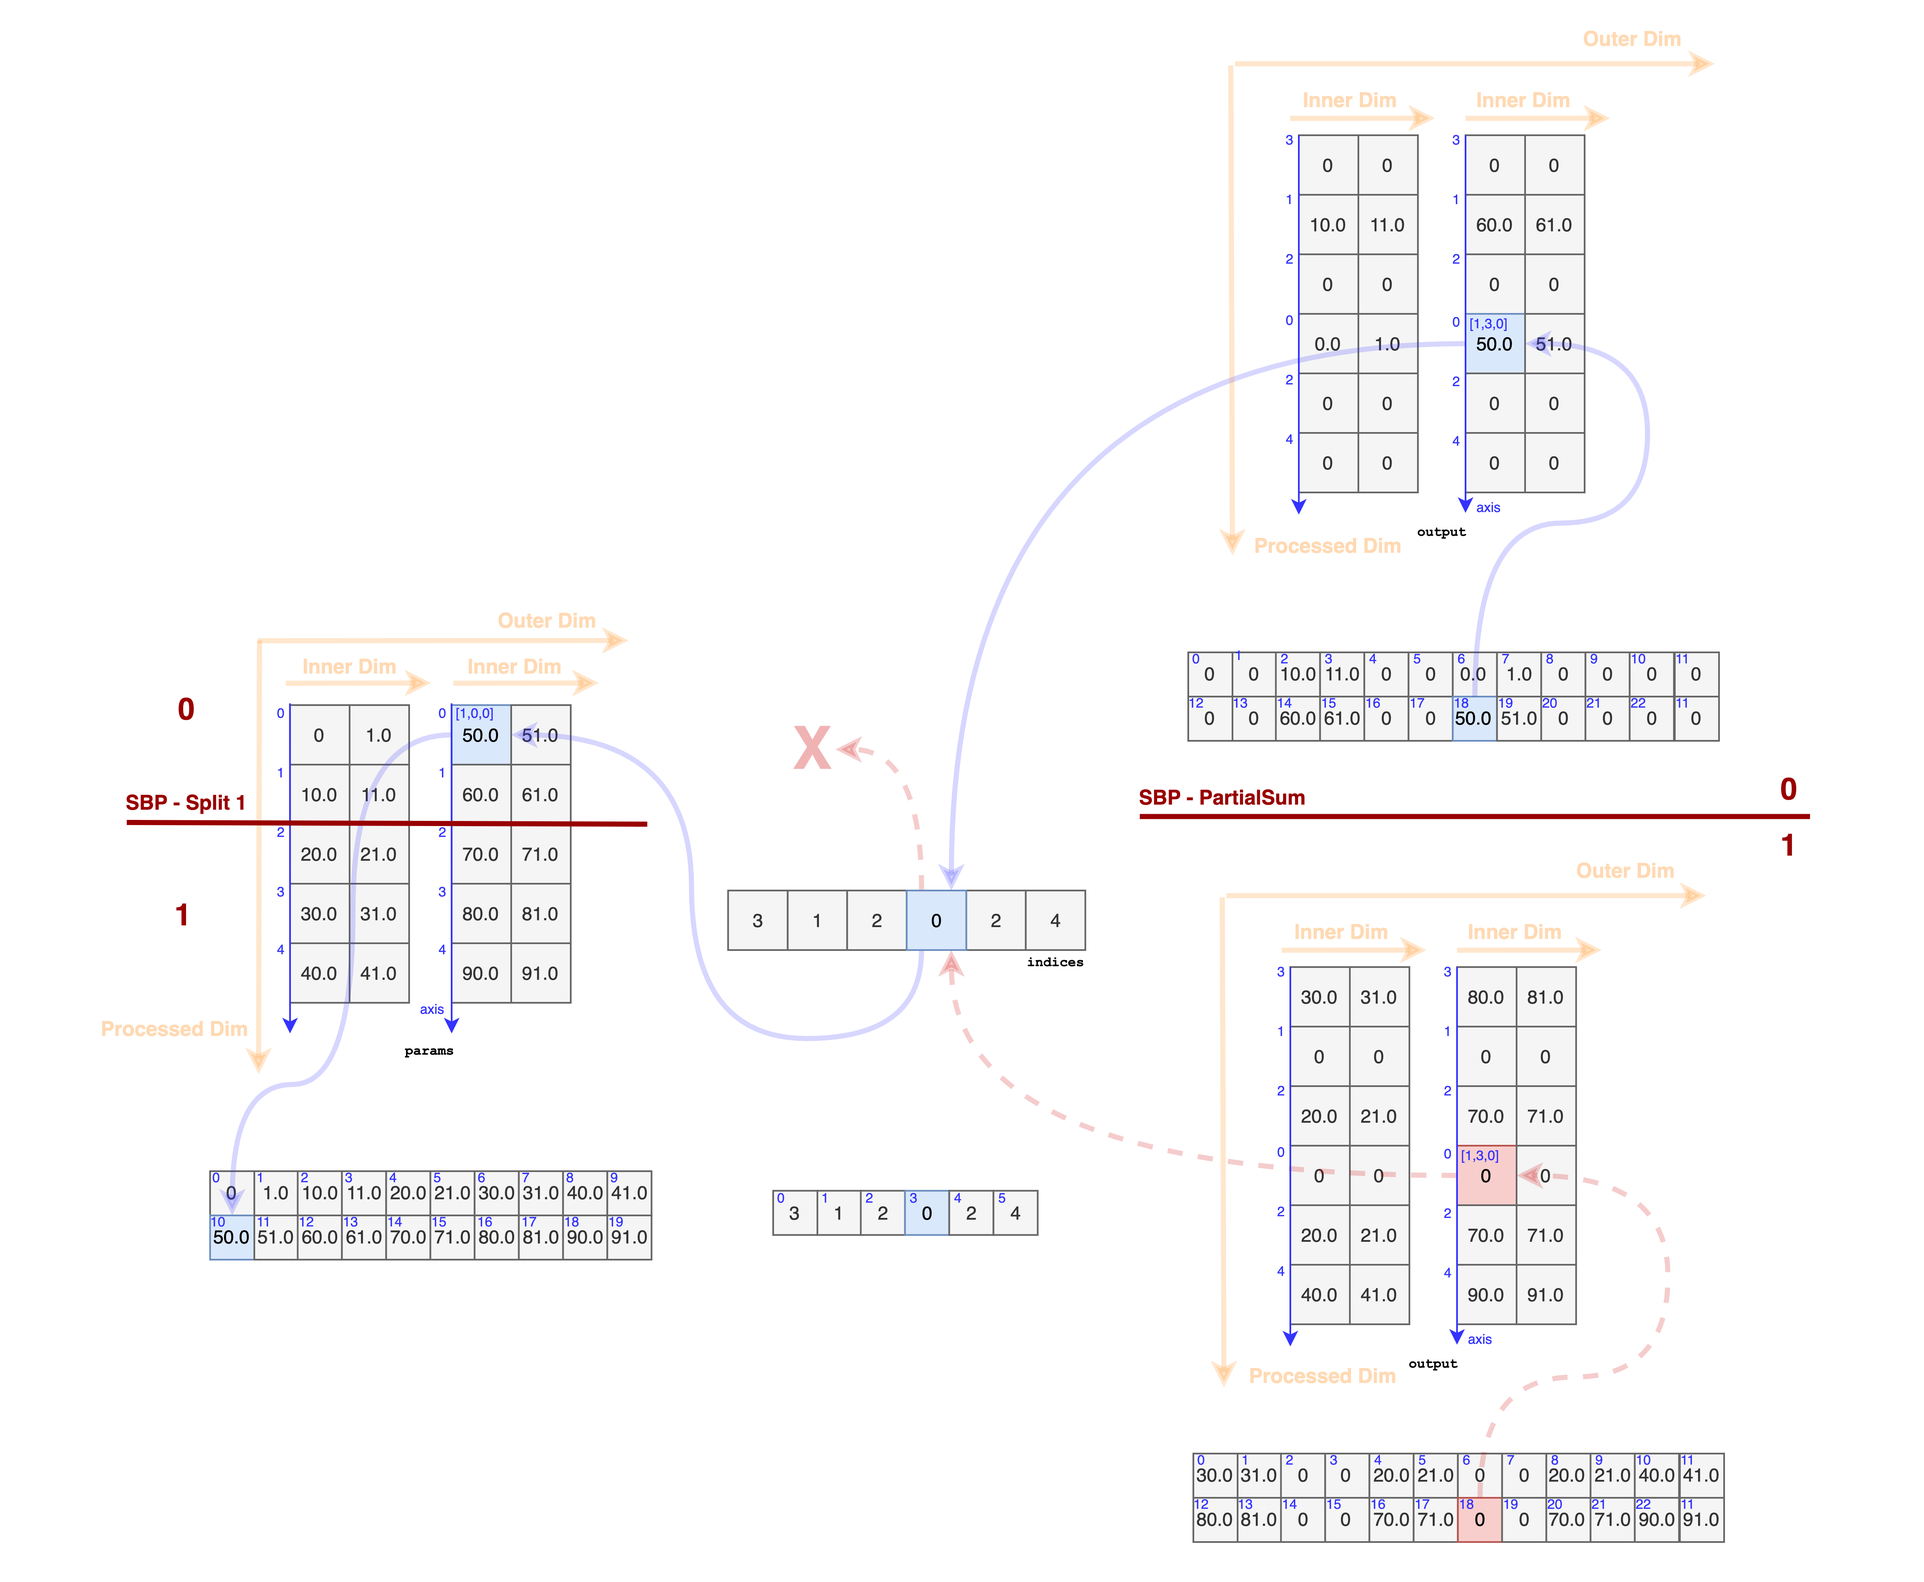
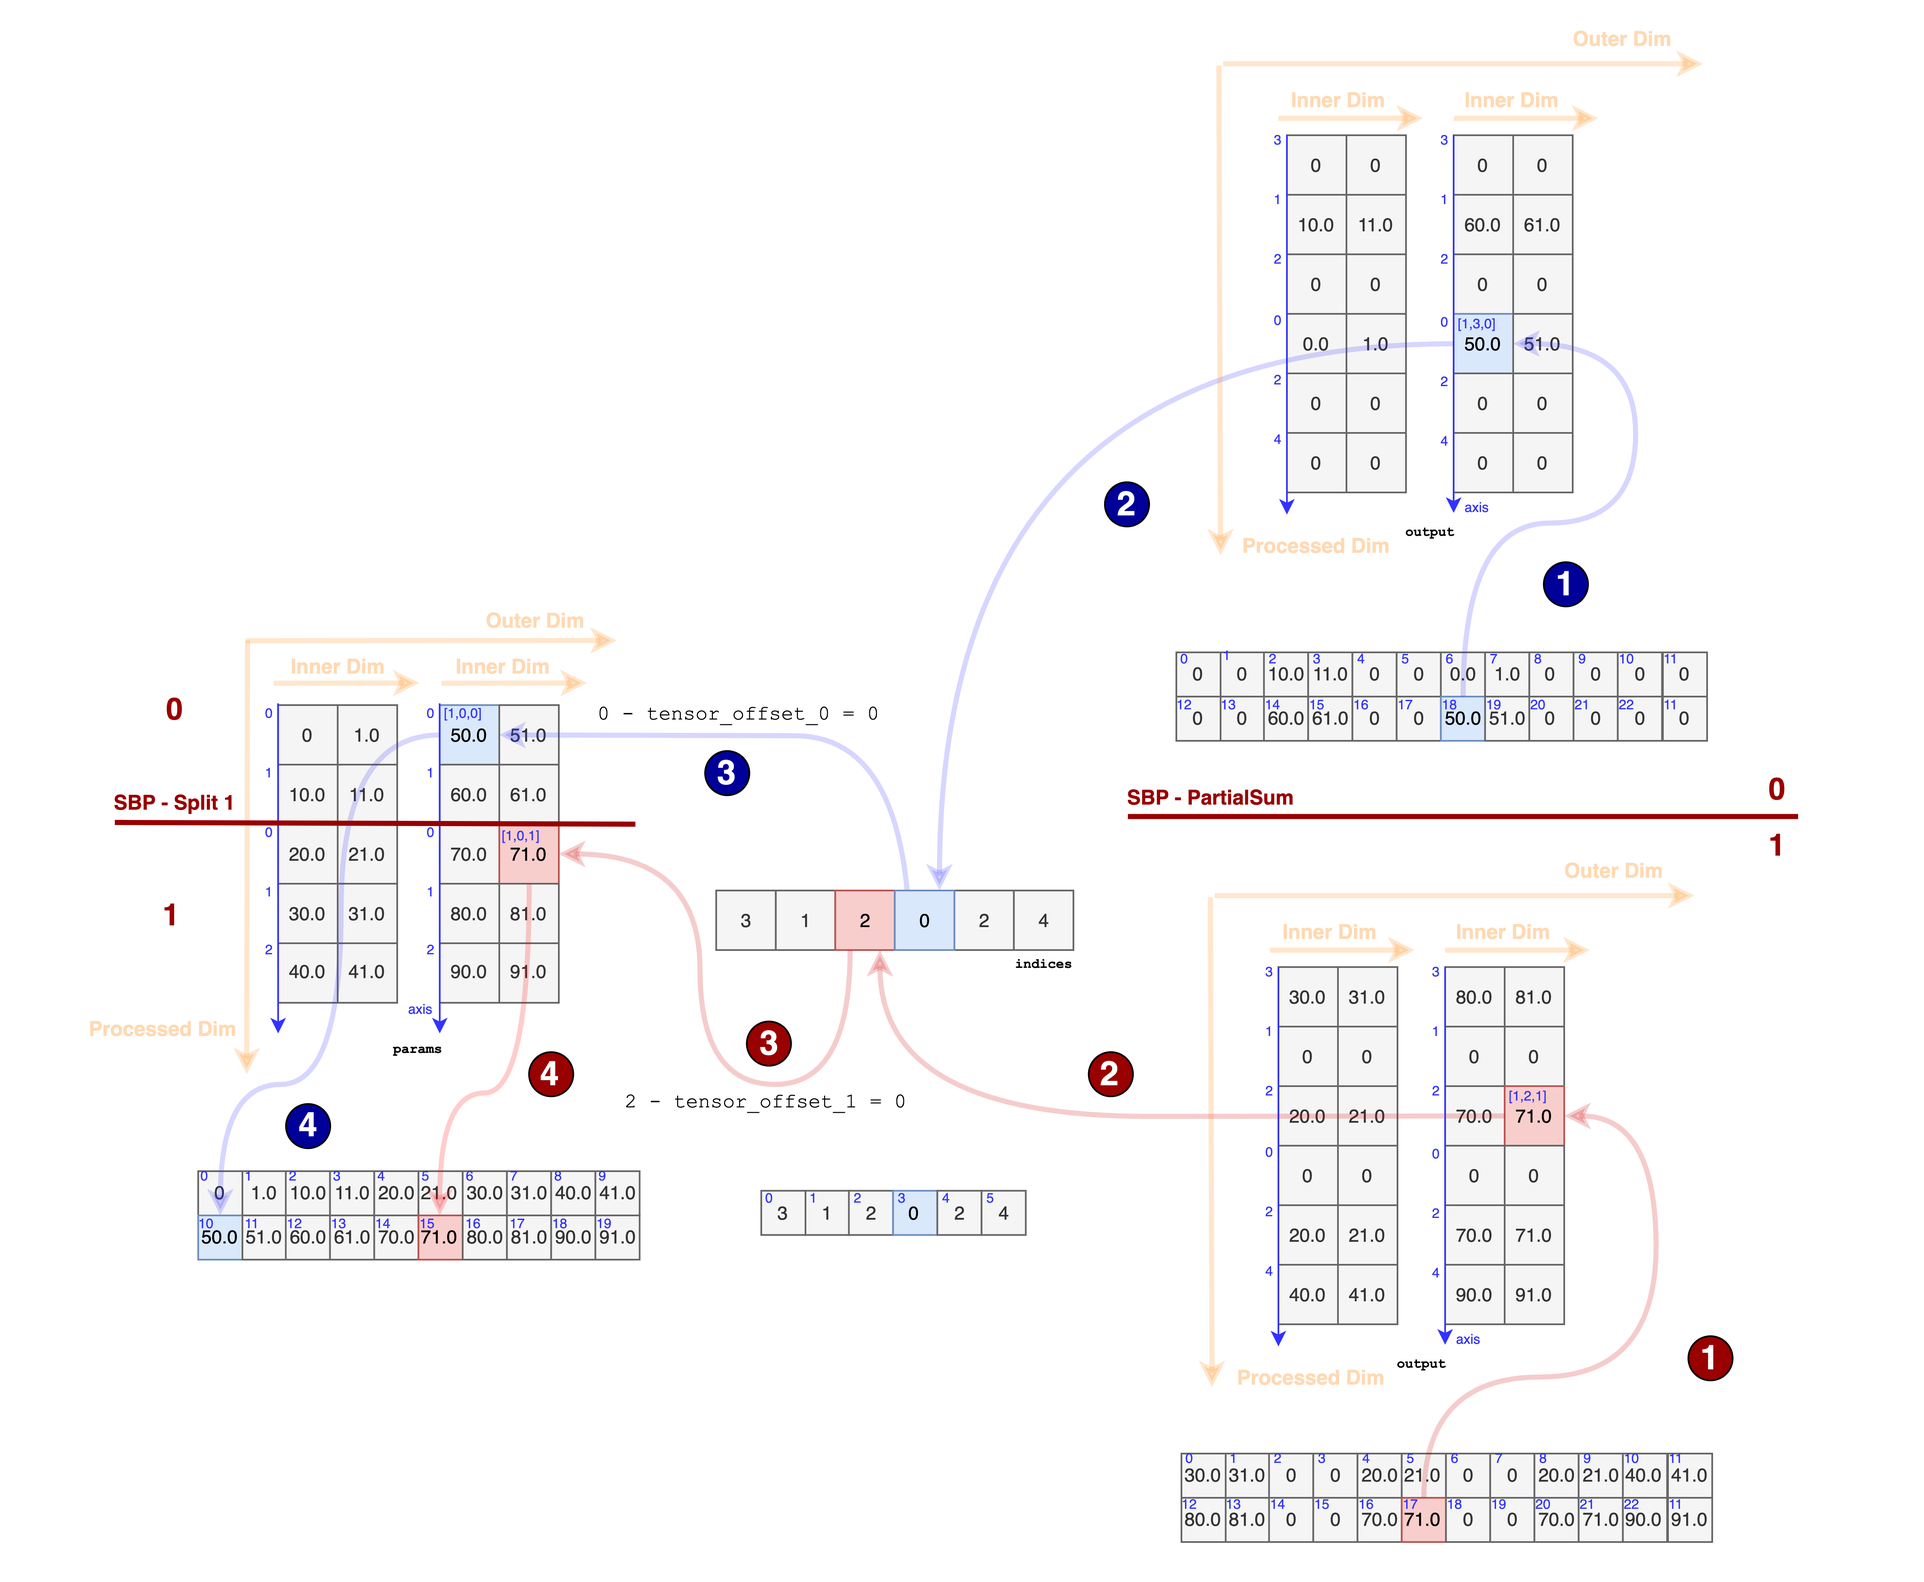
Site updated: 2023-01-22 17:56:56

diff --git a/sec_learning/Tech_System_And_Network/Oneflow_Gather_Primitive_Development/index.html b/sec_learning/Tech_System_And_Network/Oneflow_Gather_Primitive_Development/index.html
@@ -20,12 +20,12 @@
     var CONFIG = {"hostname":"zobinhuang.github.io","root":"/","scheme":"Pisces","version":"7.8.0","exturl":false,"sidebar":{"position":"left","width":180,"display":"post","padding":10,"offset":12,"onmobile":false},"copycode":{"enable":true,"show_result":true,"style":null},"back2top":{"enable":true,"sidebar":true,"scrollpercent":true},"bookmark":{"enable":false,"color":"#222","save":"auto"},"fancybox":false,"mediumzoom":false,"lazyload":false,"pangu":false,"comments":{"style":"tabs","active":null,"storage":true,"lazyload":false,"nav":null},"algolia":{"hits":{"per_page":10},"labels":{"input_placeholder":"Search for Posts","hits_empty":"We didn't find any results for the search: ${query}","hits_stats":"${hits} results found in ${time} ms"}},"localsearch":{"enable":false,"trigger":"auto","top_n_per_article":1,"unescape":false,"preload":false},"motion":{"enable":true,"async":false,"transition":{"post_block":"fadeIn","post_header":"slideDownIn","post_body":"slideDownIn","coll_header":"slideLeftIn","sidebar":"slideUpIn"}}};
   </script>
 
-  <meta name="description" content="MathJax &#x3D; {         tex: {             inlineMath: [[&#39;$&#39;,&#39;$&#39;], [&#39;\\(&#39;,&#39;\\)&#39;]],             displayMath: [[&#39;$$&#39;,&#39;$$&#39;], [&#39;\\[&#39;,&#39;\\]&#39;]],             processEscapes: true,             process">
+  <meta name="description" content="本文首先介绍了 Gather 和 Batch Gather 的行为、以及它们在 OneFlow 中如何进行 SBP 操作，然后介绍了它们底层 (CUDA 和 CPU) 实现的具体思路">
 <meta property="og:type" content="website">
 <meta property="og:title" content="在 Oneflow 中开发 Gather Primitive">
 <meta property="og:url" content="https://zobinhuang.github.io/sec_learning/Tech_System_And_Network/Oneflow_Gather_Primitive_Development/index.html">
 <meta property="og:site_name" content="Zobin">
-<meta property="og:description" content="MathJax &#x3D; {         tex: {             inlineMath: [[&#39;$&#39;,&#39;$&#39;], [&#39;\\(&#39;,&#39;\\)&#39;]],             displayMath: [[&#39;$$&#39;,&#39;$$&#39;], [&#39;\\[&#39;,&#39;\\]&#39;]],             processEscapes: true,             process">
+<meta property="og:description" content="本文首先介绍了 Gather 和 Batch Gather 的行为、以及它们在 OneFlow 中如何进行 SBP 操作，然后介绍了它们底层 (CUDA 和 CPU) 实现的具体思路">
 <meta property="og:locale" content="en_US">
 <meta property="og:image" content="https://zobinhuang.github.io/sec_learning/Tech_System_And_Network/Oneflow_Gather_Primitive_Development/pic/gather_exp_1.png">
 <meta property="og:image" content="https://zobinhuang.github.io/sec_learning/Tech_System_And_Network/Oneflow_Gather_Primitive_Development/pic/gather_exp_2.png">
@@ -50,11 +50,10 @@
 <meta property="og:image" content="https://zobinhuang.github.io/sec_learning/Tech_System_And_Network/Oneflow_Gather_Primitive_Development/pic/general_dims.png">
 <meta property="og:image" content="https://zobinhuang.github.io/sec_learning/Tech_System_And_Network/Oneflow_Gather_Primitive_Development/pic/gather_impt_exp_1.png">
 <meta property="og:image" content="https://zobinhuang.github.io/sec_learning/Tech_System_And_Network/Oneflow_Gather_Primitive_Development/pic/gather_impt_exp_2.png">
-<meta property="og:image" content="https://zobinhuang.github.io/sec_learning/Tech_System_And_Network/Oneflow_Gather_Primitive_Development/pic/gather_sbp_exp_5.png">
 <meta property="og:image" content="https://zobinhuang.github.io/sec_learning/Tech_System_And_Network/Oneflow_Gather_Primitive_Development/pic/gather_impt_exp_3.png">
 <meta property="og:image" content="https://zobinhuang.github.io/sec_learning/Tech_System_And_Network/Oneflow_Gather_Primitive_Development/pic/xxx.png">
-<meta property="article:published_time" content="2023-01-21T19:44:21.172Z">
-<meta property="article:modified_time" content="2023-01-21T19:44:21.172Z">
+<meta property="article:published_time" content="2023-01-22T09:56:19.079Z">
+<meta property="article:modified_time" content="2023-01-22T09:56:19.079Z">
 <meta property="article:author" content="Zhuobin Huang">
 <meta property="article:tag" content="Zobin">
 <meta property="article:tag" content="黄卓彬">
@@ -200,6 +199,7 @@
 </h1>
 
 <div class="post-meta">
+    <div class="post-description">本文首先介绍了 Gather 和 Batch Gather 的行为、以及它们在 OneFlow 中如何进行 SBP 操作，然后介绍了它们底层 (CUDA 和 CPU) 实现的具体思路</div>
   
   <ul class="breadcrumb">
           
@@ -617,7 +617,7 @@
   <p>
   &nbsp;&nbsp;&nbsp;&nbsp;然后把这个对象传入 CUDA Kernel，或者 Device Function 中，我们就可以通过它实现 Offset 和 高维张量坐标的互转了:
 
-  <figure class="highlight cpp"><table><tr><td class="gutter"><pre><span class="line">1</span><br><span class="line">2</span><br><span class="line">3</span><br><span class="line">4</span><br><span class="line">5</span><br><span class="line">6</span><br><span class="line">7</span><br><span class="line">8</span><br></pre></td><td class="code"><pre><span class="line"><span class="function">__global__ <span class="keyword">void</span> <span class="title">TestDeviceFunction</span><span class="params">(NdIndexOffsetHelper&lt;<span class="keyword">int32_t</span>, <span class="number">3</span>&gt; in_helper, <span class="keyword">int32_t</span> elem_cnt)</span> </span>&#123;</span><br><span class="line">  <span class="keyword">int32_t</span> index[<span class="number">3</span>];</span><br><span class="line">  CUDA_1D_KERNEL_LOOP_T(<span class="keyword">int32_t</span>, i, elem_cnt) &#123;</span><br><span class="line">    in_helper.OffsetToNdIndex(i, index);                <span class="comment">// Offset -&gt; 高维张量坐标</span></span><br><span class="line">    <span class="keyword">int32_t</span> offset = in_helper.NdIndexToOffset(index)   <span class="comment">// 高维张量坐标 -&gt; Offset</span></span><br><span class="line">    assert(i == offset);</span><br><span class="line">  &#125;</span><br><span class="line">&#125;</span><br></pre></td></tr></table></figure>
+  <figure class="highlight cpp"><table><tr><td class="gutter"><pre><span class="line">1</span><br><span class="line">2</span><br><span class="line">3</span><br><span class="line">4</span><br><span class="line">5</span><br><span class="line">6</span><br><span class="line">7</span><br><span class="line">8</span><br></pre></td><td class="code"><pre><span class="line"><span class="function">__device__ <span class="keyword">void</span> <span class="title">TestDeviceFunction</span><span class="params">(NdIndexOffsetHelper&lt;<span class="keyword">int32_t</span>, <span class="number">3</span>&gt; in_helper, <span class="keyword">int32_t</span> elem_cnt)</span> </span>&#123;</span><br><span class="line">  <span class="keyword">int32_t</span> index[<span class="number">3</span>];</span><br><span class="line">  CUDA_1D_KERNEL_LOOP_T(<span class="keyword">int32_t</span>, i, elem_cnt) &#123;</span><br><span class="line">    in_helper.OffsetToNdIndex(i, index);                <span class="comment">// Offset -&gt; 高维张量坐标</span></span><br><span class="line">    <span class="keyword">int32_t</span> offset = in_helper.NdIndexToOffset(index)   <span class="comment">// 高维张量坐标 -&gt; Offset</span></span><br><span class="line">    assert(i == offset);</span><br><span class="line">  &#125;</span><br><span class="line">&#125;</span><br></pre></td></tr></table></figure>
 </div>
 
 <h2 class="title">开发</h2>
@@ -625,7 +625,7 @@
   <p>
   &nbsp;&nbsp;&nbsp;&nbsp;下面我们对 Gather 和 Batch Gather Primitive 的具体实现进行说明。
 
-  <h3 class="title">Gather Primitive 的 CUDA 实现思路</h3>
+  <h3 class="title">Gather 过程 的实现思路</h3>
   <h4 class="paragraph">简单情况</h4>
   <div class="img" title="例子 - 使用 [2,3] 的 indices 对 [2,5,2] 的 params 在第 1 维上进行 Gather" label="gather_impt_exp_1">
     <img src="./pic/gather_impt_exp_1.png" width="100%" />
@@ -657,19 +657,60 @@
   &nbsp;&nbsp;&nbsp;&nbsp;针对输出张量的每一个元素，其推导源输入张量偏移量的逻辑都是一样的。我们把上述过程总结为如下 CUDA 程序:
 
   <figure class="highlight cpp"><table><tr><td class="gutter"><pre><span class="line">1</span><br></pre></td><td class="code"><pre><span class="line"><span class="comment">// TODO</span></span><br></pre></td></tr></table></figure>
-  <h4 class="paragraph">考虑 SBP 切分 Gather 维的情况</h4>
-
-  <div class="img" title="SBP 例子 - 对 params 进行 S0 (Gather 的 axis = 0)" label="gather_sbp_exp_5_second">
-    <img src="./pic/gather_sbp_exp_5.png" width="600px" />
-  </div>
-
   <p>
-  &nbsp;&nbsp;&nbsp;&nbsp;回顾我们在 <ref>section_gather_sbp</ref> 中讨论过的，当对 Gather Operator 采用对 <code>params</code> 输入张量进行 Split，<code>indices</code> 进行 Broadcast 的 SBP 形式时，如 <imgref>gather_sbp_exp_5_second</imgref> 所示，一旦对 <code>params</code> 输入张量进行 Split 的维度恰好是 Gather 的维度，那么将会导致 <code>indices</code> 中指定的部分 Gather 序号对应的元素的缺失，此时的输出张量 <code>output</code> 将呈现 PartialSum 的 SBP 形式。在这种情况下，底层 Implementation 在处理的时候就需要引入对当前机器是否拥有 Gather 所需元素的判断，如果判断到当前机器没有某个 Index 所指定的元素，则需要往对应的输出元素写 0，以保证 PartialSum 的正确性。下面我们对如何实现这层判断进行讨论。
+  &nbsp;&nbsp;&nbsp;&nbsp;基于上述逻辑的 CPU 处理程序如下所示:
+
+  <figure class="highlight cpp"><table><tr><td class="gutter"><pre><span class="line">1</span><br></pre></td><td class="code"><pre><span class="line"><span class="comment">// TODO</span></span><br></pre></td></tr></table></figure>
+  <h4 class="paragraph">考虑 SBP 切分 Gather 维的情况</h4>
+  <p>
+  &nbsp;&nbsp;&nbsp;&nbsp;回顾我们在 <ref>section_gather_sbp</ref> 中讨论过的，当对 Gather Operator 采用对 <code>params</code> 输入张量进行 Split，<code>indices</code> 进行 Broadcast 的 SBP 形式时，如 <imgref>gather_sbp_exp_5</imgref> 所示，一旦对 <code>params</code> 输入张量进行 Split 的维度恰好是 Gather 的维度，那么将会导致 <code>indices</code> 中指定的部分 Gather 序号对应的元素的缺失，此时的输出张量 <code>output</code> 将呈现 PartialSum 的 SBP 形式。在这种情况下，底层 Implementation 在处理的时候就需要引入对当前机器是否拥有 Gather 所需元素的判断，如果判断到当前机器没有某个 Index 所指定的元素，则需要往对应的输出元素写 0，以保证 PartialSum 的正确性。下面我们对如何实现这层判断进行讨论。
 
   <div class="img" title="例子 - 使用 [2,3] 的 indices 对 [2,5,2] 的 params 在第 1 维上进行 Gather" label="gather_impt_exp_3">
     <img src="./pic/gather_impt_exp_3.png" width="100%" />
   </div>
 
+  <p>
+  &nbsp;&nbsp;&nbsp;&nbsp;我们还是复用上面的例子，并且我们让 <code>params</code> 张量在 Gather 维进行 SBP Split 切分，如 <imgref>gather_impt_exp_3</imgref> 所示：Gather 维中偏移量为 0 和 1 的元素在第 0 号机器上，偏移量为 2、3 和 4 的元素在第 1 号机器上。此时我们首先使用一个变量 <code>tensor_offset</code>，来指示每台机器所拥有的张量在 Split 的维度上的偏移量: 第 0 号机器的偏移量 <code>tensor_offset_0</code> 为 0，第 1 号机器的偏移量 <code>tensor_offset_1</code> 为 2。每台机器上的这个变量将用于后续判断当前机器是否拥有某个元素。
+
+  <p>
+  &nbsp;&nbsp;&nbsp;&nbsp;我们使用上面一样的思路，针对每一个输出元素反推出它在输入张量中的 Offset。如 <imgref>gather_impt_exp_3</imgref> 所示，对于第 0 号机器来说，流程照常，首先 ① 根据输出元素在内存中的偏移量反推出张量坐标; 然后 ② 根据 Inner Dim 的坐标得到 Index 在 <code>indices</code> 中的偏移量; 完成后，接下来的流程与上面稍有所不同，③ 我们让 Index 在 <code>indices</code> 中的偏移量减去 <code>tensor_offset</code>, 此时如果同时满足以下两个条件:
+
+  <div class="border">
+  <ul>
+    <li>减法结果大于 0;</li>
+    <li>减法结果小于当前机器所持有的 <code>params</code> 张量部分在 Processed Dim 上的 Size;</li>
+  </ul>
+  </div>
+
+  <p>
+  &nbsp;&nbsp;&nbsp;&nbsp;那么说明当前机器拥有指定的元素，并且减法结果就是对应元素在 <code>params</code> 张量中在 Processed Dim 的偏移量。
+
+  <p>
+  &nbsp;&nbsp;&nbsp;&nbsp;举例如 <imgref>gather_impt_exp_3</imgref> 所示，对于第 0 号机器输出张量中偏移量为 18 的元素 (i.e. 值为 50)，在进行到 ③ 时，计算得到 
+
+<p>  $$\text{offset}_{(\text{Processed Dim})} = 0 - \text{tensor_offset_0} = 0$$</p>
+  <p>
+  &nbsp;&nbsp;&nbsp;&nbsp;因此可以使用坐标 $[1,\underbrace{0}_{\text{Processed Dim}},0]$ 对输入张量 <code>params</code> 的对应元素进行访问。
+
+  <p>
+  &nbsp;&nbsp;&nbsp;&nbsp;对于第 1 号机器输出张量中偏移量为 17 的元素 (i.e. 值为 71) 来说，在进行到 ③ 时，计算得到:
+
+<p>  $$\text{offset}_{(\text{Processed Dim})} = 2 - \text{tensor_offset_1} = 0$$</p>
+  <p>
+  &nbsp;&nbsp;&nbsp;&nbsp;因此可以使用坐标 $[1,\underbrace{0}_{\text{Processed Dim}},1]$ 对输入张量 <code>params</code> 的对应元素进行访问。
+
+  <p>
+  &nbsp;&nbsp;&nbsp;&nbsp;如果 $\text{offset}_{(\text{Processed Dim})}$ 求出来小于 $0$，那么说明请求的元素超出了当前机器所持有的张量部分在 Processed Dim 上的下界，因此需要对输出元素填 0。除了判断下界，当然需要判断上界，如果 $\text{offset}_{(\text{Processed Dim})}$ 大于等于当前机器所持有的张量部分在 Processed Dim 上的 Size，则同理需要对输出元素填 0。
+
+  <p>
+  &nbsp;&nbsp;&nbsp;&nbsp;补充上述对 SBP 逻辑的处理，更新后的 CUDA 程序如下所示:
+
+  <figure class="highlight cpp"><table><tr><td class="gutter"><pre><span class="line">1</span><br></pre></td><td class="code"><pre><span class="line"><span class="comment">// TODO</span></span><br></pre></td></tr></table></figure>
+  <p>
+  &nbsp;&nbsp;&nbsp;&nbsp;CPU 处理程序如下所示:
+
+  <figure class="highlight cpp"><table><tr><td class="gutter"><pre><span class="line">1</span><br></pre></td><td class="code"><pre><span class="line"><span class="comment">// TODO</span></span><br></pre></td></tr></table></figure>
+  <h3 class="title">Batch Gather 的实现思路</h3>
   <p>
   &nbsp;&nbsp;&nbsp;&nbsp;
 </div>

diff --git a/sec_learning/Tech_System_And_Network/Oneflow_Gather_Primitive_Development/style/index.css b/sec_learning/Tech_System_And_Network/Oneflow_Gather_Primitive_Development/style/index.css
@@ -317,6 +317,8 @@ theorm_index {
     font-size: 16px; 
     word-spacing:0px;  
     border:1px solid black;
+    border-radius: 5px;
+    box-shadow: 5px 5px 5px #888888
 }
 
 .div_learning_post_background{

diff --git a/sec_learning/template_post/style/index.css b/sec_learning/template_post/style/index.css
@@ -317,6 +317,8 @@ theorm_index {
     font-size: 16px; 
     word-spacing:0px;  
     border:1px solid black;
+    border-radius: 5px;
+    box-shadow: 5px 5px 5px #888888
 }
 
 .div_learning_post_background{
